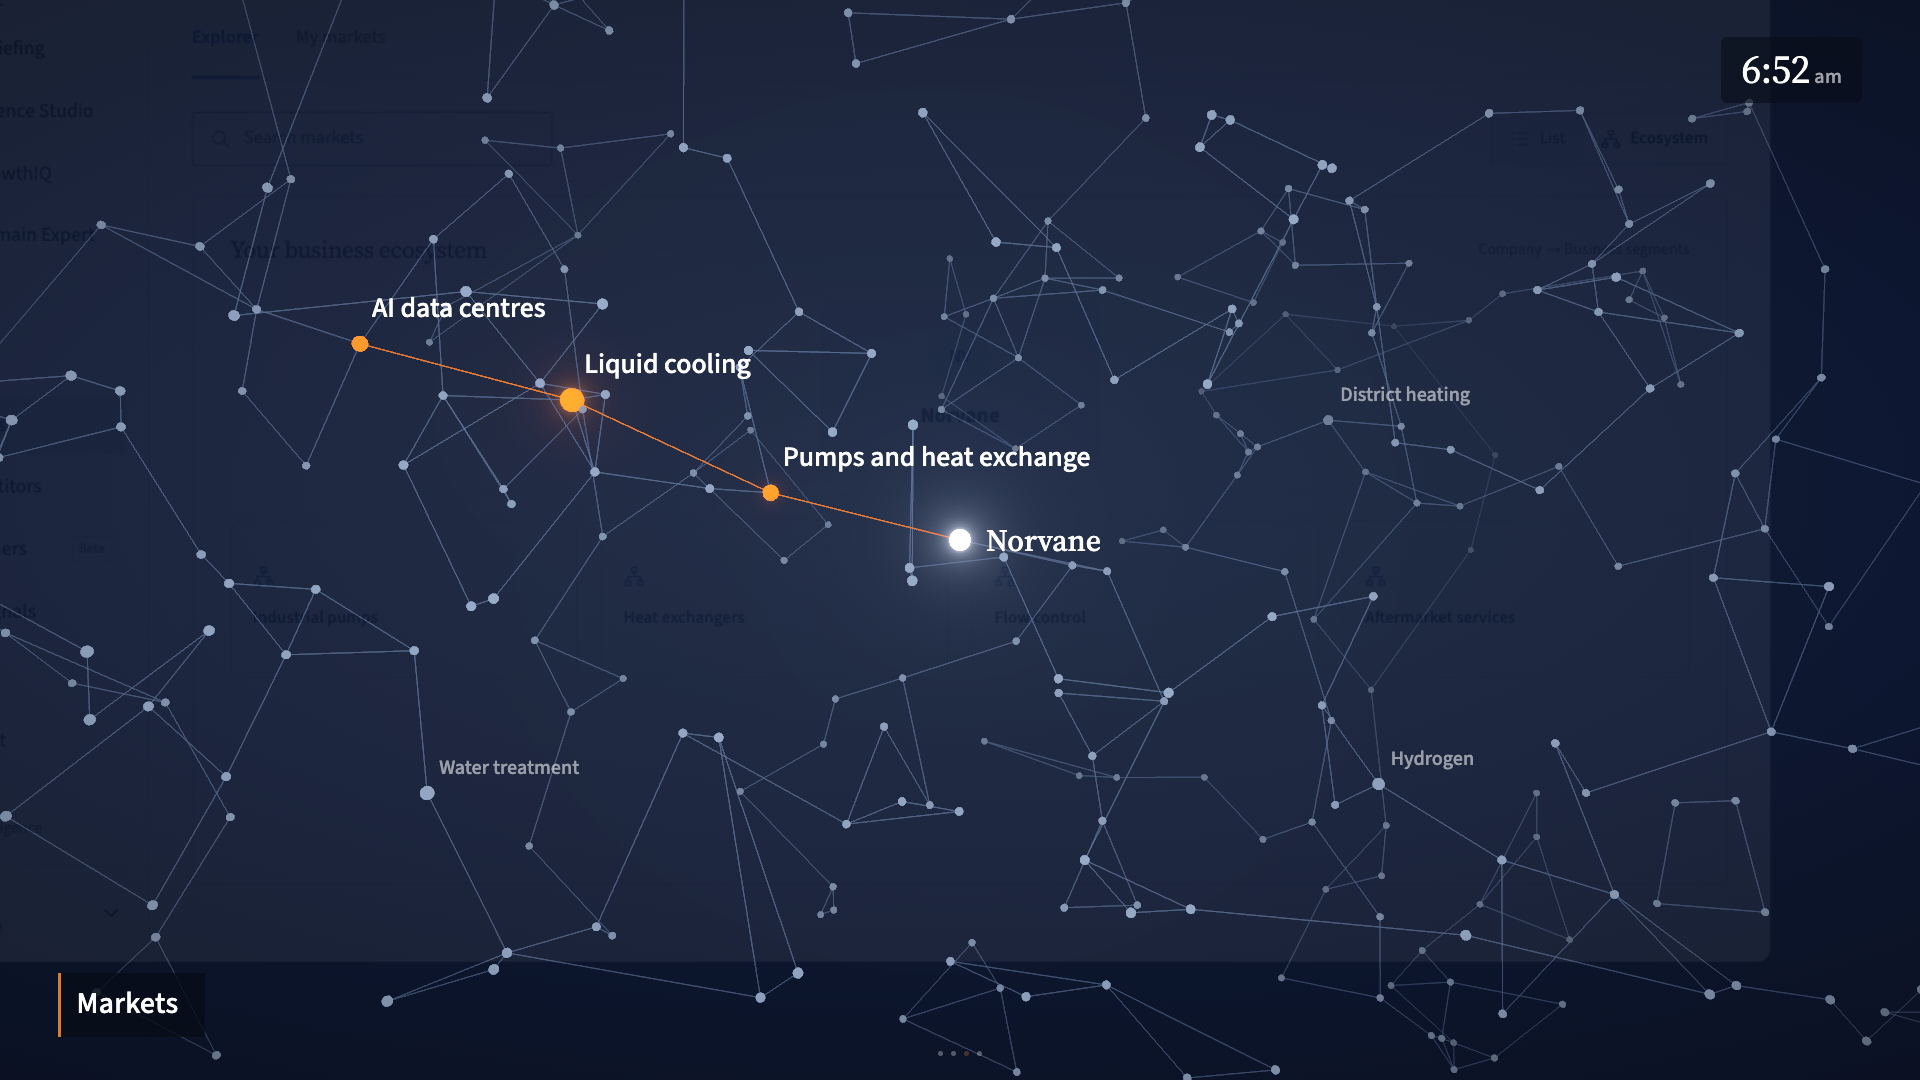
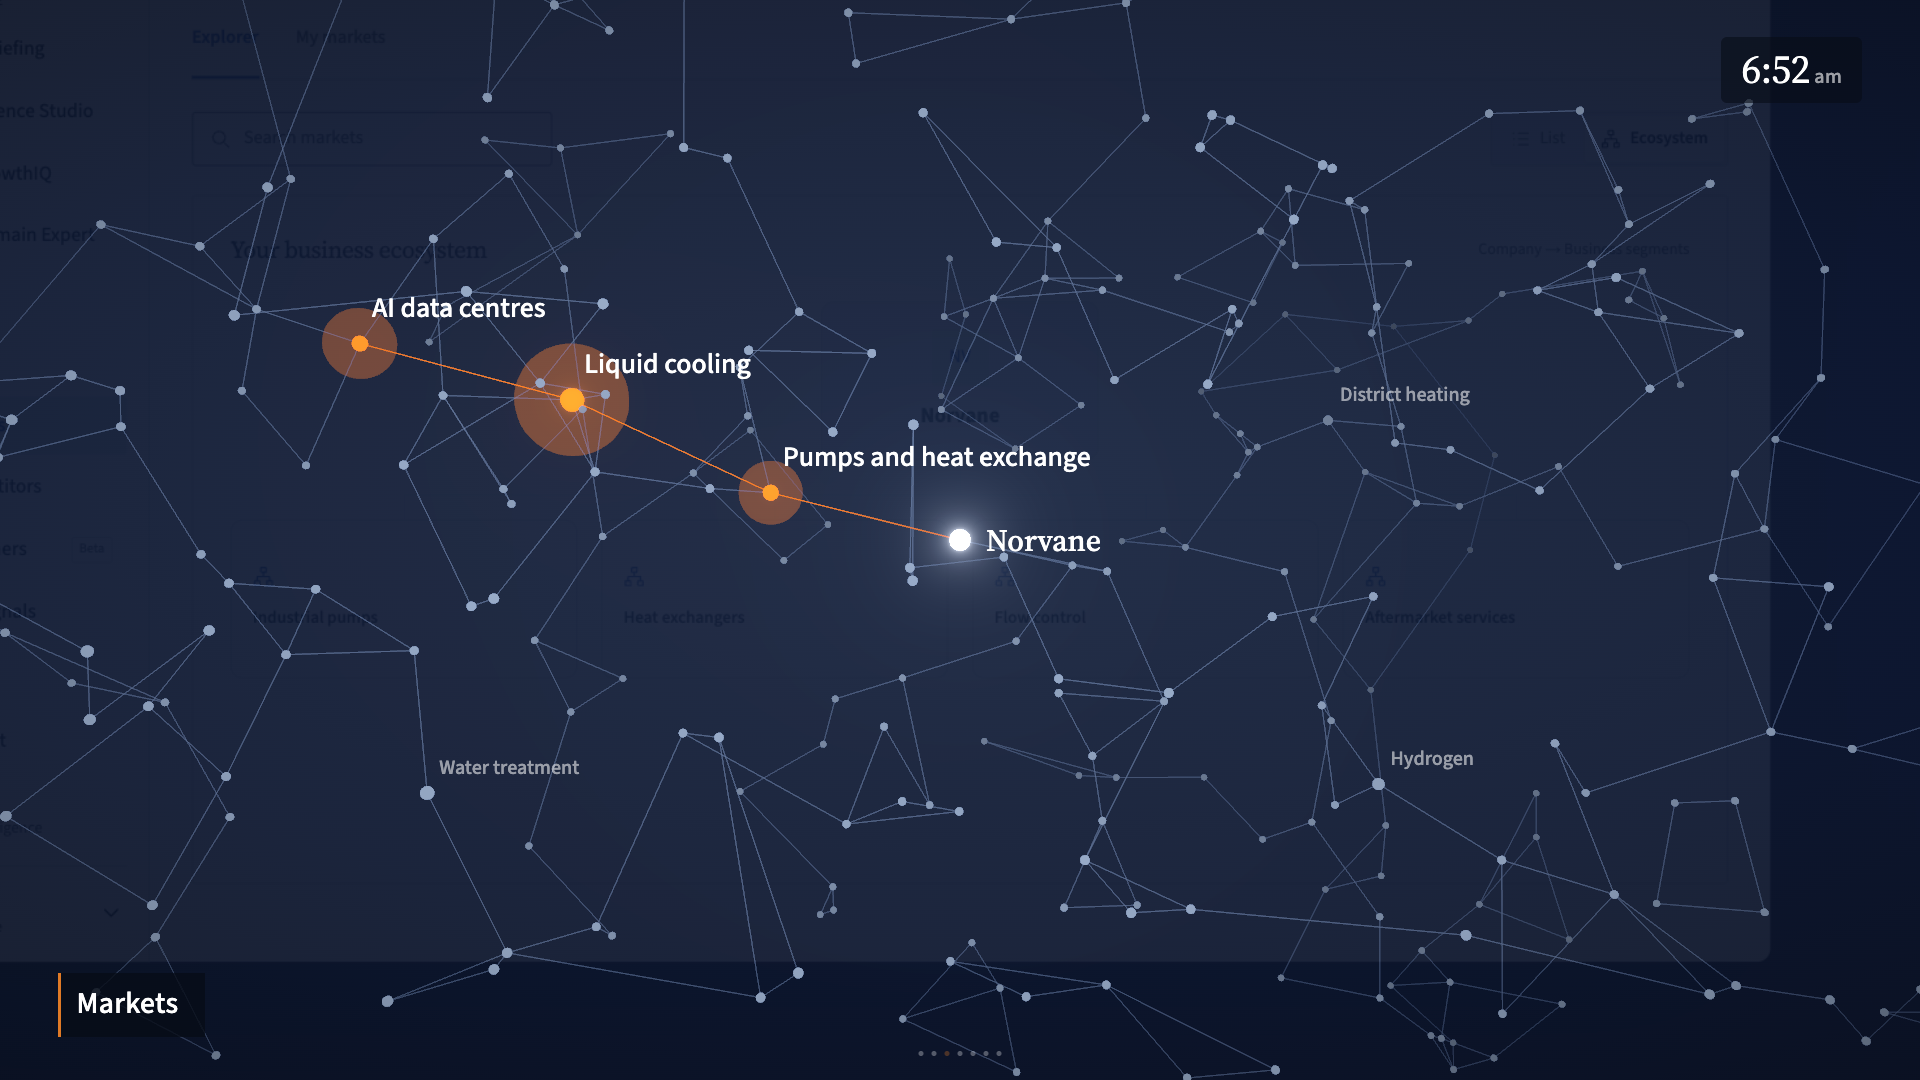
Polish the stage demo: larger tables, travelling evidence, glow and fallbacks
Competitor and benchmark views use four companies at a larger scale.
Evidence cards fly in from the direction of the screens they came from.
Lit markets in the 3D field get halos. Carried text lifts off on a clean
backing. The answer shows a short researching line while it starts, and
act 2 falls back to the ecosystem view when WebGL is unavailable.

Changed region(s): [[0.25, 0.3056, 0.3438, 0.4278], [0.1562, 0.275, 0.2188, 0.3667], [0.375, 0.4278, 0.4375, 0.4889]]

diff --git a/stage/World.jsx b/stage/World.jsx
@@ -33,12 +33,23 @@ function frame(rect, fill) {
 
 // The screens laid out in space, the camera that moves between them, the spotlight that dims
 // everything but the region in question, the scripted cursor and the text carried between screens.
+// The 3D field needs WebGL; without it act 2 simply stays on the product's own ecosystem view.
+const canRender3D = (() => { try { return !!document.createElement('canvas').getContext('webgl2') && !new URLSearchParams(location.search).has('flat'); } catch { return false; } })();
+class Guard extends React.Component {
+  state = {failed: false};
+  static getDerivedStateFromError() { return {failed: true}; }
+  componentDidCatch() { this.props.onFail(); }
+  render() { return this.state.failed ? null : this.props.children; }
+}
+
 export default function World({step, index, settled, director}) {
+  const [field3D, setField3D] = useState(canRender3D);
   const world = useRef(null), panels = useRef({}), sealed = useRef({}), live = useRef({s: 1, x: 0, y: 0});
   const [camera, setCamera] = useState(live.current);
   const [spot, setSpot] = useState(null);
   const [cursor, setCursor] = useState({x: 0, y: 0, on: false, click: 0});
   const [flyer, setFlyer] = useState(null);
+  const [arrivals, setArrivals] = useState([]);
 
   useEffect(() => {
     const timers = [], hidden = [];
@@ -87,10 +98,20 @@ export default function World({step, index, settled, director}) {
         frameId = requestAnimationFrame(() => requestAnimationFrame(() => setFlyer(f => f && {...f, moving: true})));
         later(cameraAt + MOVE + 0.1, () => { hidden.splice(0).forEach(el => { el.style.visibility = ''; }); setFlyer(null); });
       });
+      // Evidence gathered earlier arrives from the direction of the screen it was seen on.
+      setArrivals([]);
+      if (!settled) for (const [n, arrival] of (step.arrivals ?? []).entries()) later(arrival.at, () => {
+        const to = find(arrival.to); if (!to) return;
+        const r = project(worldRect(to), live.current), here = layout[step.screen], there = layout[arrival.from];
+        const dx = there[0] - here[0], dy = there[1] - here[1], length = Math.hypot(dx, dy) || 1, reach = Math.max(innerWidth, innerHeight) * 0.9;
+        setArrivals(list => [...list, {key: n, rect: r, html: to.innerHTML, offset: [dx / length * reach, dy / length * reach], moving: false}]);
+        requestAnimationFrame(() => requestAnimationFrame(() => setArrivals(list => list.map(a => a.key === n ? {...a, moving: true} : a))));
+        later(arrival.at + 1.5, () => setArrivals(list => list.filter(a => a.key !== n)));
+      });
     };
     // Screens mount their sealed content a tick after the world does.
     frameId = requestAnimationFrame(run);
-    return () => { timers.forEach(clearTimeout); cancelAnimationFrame(frameId); hidden.forEach(el => { el.style.visibility = ''; }); setFlyer(null); };
+    return () => { timers.forEach(clearTimeout); cancelAnimationFrame(frameId); hidden.forEach(el => { el.style.visibility = ''; }); setFlyer(null); setArrivals([]); };
   }, [step.id]);
 
   const fieldOn = FIELD.includes(step.id);
@@ -101,9 +122,10 @@ export default function World({step, index, settled, director}) {
       </div>)}
     </div>
     <div className="stage-spot" data-on={!!spot} style={spot ? {left: spot.x - 18, top: spot.y - 18, width: spot.w + 36, height: spot.h + 36} : undefined}/>
-    <div className="stage-veil" data-on={step.id === 'field' || step.id === 'end'}/>
-    <div className="stage-scene" data-on={step.id === 'field'}><Suspense fallback={null}>{fieldOn && <Scene director={director}/>}</Suspense></div>
-    {flyer && <div className="stage-flyer" style={{left: flyer.b.x, top: flyer.b.y, width: flyer.b.w, ...flyer.font, transform: flyer.moving ? 'none' : `translate(${flyer.a.x - flyer.b.x}px, ${flyer.a.y - flyer.b.y}px) scale(${flyer.start})`}}>{flyer.text}</div>}
+    <div className="stage-veil" data-on={(step.id === 'field' && field3D) || step.id === 'end'}/>
+    <div className="stage-scene" data-on={step.id === 'field' && field3D}>{field3D && <Guard onFail={() => setField3D(false)}><Suspense fallback={null}>{fieldOn && <Scene director={director}/>}</Suspense></Guard>}</div>
+    {arrivals.map(a => <div key={a.key} className="stage-arrival" data-moving={a.moving} style={{left: a.rect.x, top: a.rect.y, width: a.rect.w, height: a.rect.h, '--dx': a.offset[0] + 'px', '--dy': a.offset[1] + 'px'}} dangerouslySetInnerHTML={{__html: a.html}}/>)}
+    {flyer && <div className="stage-flyer" data-moving={flyer.moving} style={{left: flyer.b.x, top: flyer.b.y, width: flyer.b.w, ...flyer.font, transform: flyer.moving ? 'none' : `translate(${flyer.a.x - flyer.b.x}px, ${flyer.a.y - flyer.b.y}px) scale(${flyer.start})`}}>{flyer.text}</div>}
     <div className="stage-cursor" data-on={cursor.on} style={{transform: `translate(${cursor.x}px, ${cursor.y}px)`}}>
       {cursor.click > 0 && <span className="stage-click" key={cursor.click}/>}
       <svg viewBox="0 0 24 24" aria-hidden="true"><path d="M5 3v16l4.5-4 2.8 6.2 2.6-1.2-2.8-6.1H18z"/></svg>

diff --git a/stage/screens/Answer.jsx b/stage/screens/Answer.jsx
@@ -17,9 +17,10 @@ const extra = ':host{background:#fff!important;display:block}svg{width:16px;heig
   + '[data-phase="0"] .ar-reader>*{opacity:0}'
   + '[data-phase="1"] .ar-answer-start{animation:type 1.4s steps(34,end) 2.6s both}[data-phase="1"] .ar-answer-intro{animation:rise .8s ' + out + ' 4.2s both}[data-phase="1"] .points li{animation:rise .8s ' + out + ' calc(5.2s + var(--i) * .5s) both}'
   + '[data-phase="0"] .ar-source-group,[data-phase="1"] .ar-source-group{opacity:0}'
-  + '[data-phase="2"] .ar-source-group>h2{animation:rise .7s ' + out + ' 1.2s both}[data-phase="2"] .ar-source-row{animation:dock 1.2s ' + out + ' calc(1.7s + var(--i) * .7s) both}'
+  + '[data-phase="2"] .ar-source-group>h2{animation:rise .7s ' + out + ' 1.2s both}[data-phase="2"] .ar-source-row{animation:land .6s ' + out + ' calc(3.25s + var(--i) * 1s) both}'
   + '@keyframes type{from{clip-path:inset(-10% 100% -10% -2%)}to{clip-path:inset(-10% -2% -10% -2%)}}@keyframes rise{from{opacity:0;transform:translateY(8px)}to{opacity:1;transform:none}}'
-  + '@keyframes dock{from{opacity:0;transform:translateX(-520px);box-shadow:inset 4px 0 0 #e07a26}60%{opacity:1;box-shadow:inset 4px 0 0 #e07a26}to{opacity:1;transform:none;box-shadow:inset 0 0 0 #e07a26}}'
+  + '@keyframes land{from{opacity:0;box-shadow:inset 4px 0 0 #e07a26}to{opacity:1;box-shadow:inset 0 0 0 #e07a26}}'
+  + '[data-focus="answer"]{position:relative}[data-phase="1"] [data-focus="answer"]::before{content:"Researching…";position:absolute;left:0;top:4px;font-size:17px;color:var(--muted);animation:think 2.5s both}@keyframes think{0%{opacity:0}25%,80%{opacity:1}100%{opacity:0}}'
   + '.ar-research{max-width:920px;margin:0;animation:rise .7s ' + out + ' both}.ar-chapter>summary{padding:15px 0}';
 
 // The Ask GrowthIQ result view (ask-results.css classes): the answer writes itself, the evidence
@@ -45,7 +46,7 @@ export default forwardRef(function Answer({stepId, index, ...host}, ref) {
           : <article>
               <div data-focus="answer"><h1 className="ar-answer-start">{answer.heading}</h1><p className="ar-answer-intro">{answer.intro}</p>
                 <ul className="points">{answer.points.map(([title, text], i) => <li key={title} style={{'--i': i}} data-open={i === 2} data-lit={i === 2 && lit} data-focus={i === 2 ? 'open-question' : undefined}><strong>{title}</strong><span data-focus={i === 2 ? 'open-question-text' : undefined}>{text}</span></li>)}</ul></div>
-              <section className="ar-source-group" data-focus="evidence"><h2>Evidence</h2>{answer.evidence.map(([from, title], i) => <div className="ar-source-row" key={from} style={{'--i': i}}><span><strong>From {from}</strong><small>{title}</small></span></div>)}</section>
+              <section className="ar-source-group" data-focus="evidence"><h2>Evidence</h2>{answer.evidence.map(([from, title], i) => <div className="ar-source-row" key={from} style={{'--i': i}} data-focus={'evidence-' + i}><span><strong>From {from}</strong><small>{title}</small></span></div>)}</section>
             </article>}</div>
       </div>
     </div>

diff --git a/stage.css b/stage.css
@@ -16,7 +16,7 @@ html,body{height:100%;margin:0;overflow:hidden;background:#070b16}
 .stage-panel-app .stage-screen{border-radius:10px;box-shadow:0 40px 140px rgb(0 0 0 / .55)}
 
 /* Everything outside the region being discussed falls back */
-.stage-spot{position:absolute;border-radius:14px;box-shadow:0 0 0 200vmax rgb(7 11 22 / .62);opacity:0;pointer-events:none;transition:left var(--move) var(--ease),top var(--move) var(--ease),width var(--move) var(--ease),height var(--move) var(--ease),opacity .8s}
+.stage-spot{position:absolute;border-radius:14px;box-shadow:0 0 0 200vmax rgb(11 20 44 / .68);opacity:0;pointer-events:none;transition:left var(--move) var(--ease),top var(--move) var(--ease),width var(--move) var(--ease),height var(--move) var(--ease),opacity .8s}
 .stage-spot[data-on="true"]{opacity:1}
 
 /* Act 2: the stage darkens and the market field takes over */
@@ -32,7 +32,14 @@ html,body{height:100%;margin:0;overflow:hidden;background:#070b16}
 .stage-labels span[data-role="company"]{font-family:"Source Serif 4",Georgia,serif;font-size:clamp(18px,1.6vw,34px);color:#fff;margin:-.7em 0 0 26px}
 
 /* Text carried from one screen to the next */
-.stage-flyer{position:absolute;margin:0;transform-origin:0 0;transition:transform var(--move) var(--ease);pointer-events:none;text-wrap:balance}
+.stage-flyer{position:absolute;margin:0;transform-origin:0 0;transition:transform var(--move) var(--ease),background-color .5s .5s,box-shadow .5s .5s;pointer-events:none;text-wrap:balance;background:#fff;box-shadow:0 0 0 .4em #fff}
+.stage-flyer[data-moving="true"]{background-color:transparent;box-shadow:0 0 0 .4em transparent}
+
+/* Evidence arriving from the screens it was gathered on */
+.stage-arrival{position:absolute;box-sizing:border-box;display:flex;flex-direction:column;justify-content:center;padding:0 0 0 14px;border-radius:6px;background:#fff;color:#122b3c;font-family:"Source Sans 3",sans-serif;box-shadow:inset 4px 0 0 var(--orange),0 18px 50px rgb(0 0 0 / .45);opacity:0;transform:translate(var(--dx),var(--dy)) scale(.72);transition:transform 1.15s var(--out),opacity .35s;pointer-events:none}
+.stage-arrival[data-moving="true"]{opacity:1;transform:none}
+.stage-arrival strong{display:block;font-size:clamp(13px,1.15vw,24px);font-weight:650;color:#b85d14}
+.stage-arrival small{display:block;margin-top:.15em;font-size:clamp(16px,1.45vw,30px)}
 
 /* Scripted cursor */
 .stage-cursor{position:absolute;left:0;top:0;width:0;height:0;opacity:0;transition:transform .9s var(--out),opacity .4s;pointer-events:none}

diff --git a/stage/Scene.jsx b/stage/Scene.jsx
@@ -15,7 +15,7 @@ const {nodes, path} = field;
 // need that started in AI data centres is traced to the company.
 function Field({director, labels}) {
   const c = useMemo(() => buildConstellation({nodes, path}), []);
-  const group = useRef(), mesh = useRef(), links = useRef(), pathLine = useRef();
+  const group = useRef(), mesh = useRef(), halos = useRef(), links = useRef(), pathLine = useRef();
   const scratch = useMemo(() => ({m: new THREE.Matrix4(), q: new THREE.Quaternion(), s: new THREE.Vector3(), p: new THREE.Vector3(), v: new THREE.Vector3(), col: new THREE.Color()}), []);
   const SEGMENTS = 40;
   const linkGeometry = useMemo(() => {
@@ -53,6 +53,12 @@ function Field({director, labels}) {
       mesh.current.setMatrixAt(i, scratch.m.compose(scratch.p, scratch.q, scratch.s));
       mesh.current.setColorAt(i, scratch.col.multiplyScalar(glow));
     });
+    onPath.forEach((i, place) => {
+      const lit = c.points[i].role !== 'company' && drawn > place / onPath.length ? 1 : 0, breath = 1 + Math.sin(time * 1.8 + place) * 0.12;
+      scratch.p.set(c.points[i].x, c.points[i].y, c.points[i].z); scratch.s.setScalar(lit * (place === 1 ? 1.5 : 1) * breath);
+      halos.current.setMatrixAt(place, scratch.m.compose(scratch.p, scratch.q, scratch.s));
+    });
+    halos.current.instanceMatrix.needsUpdate = true;
     mesh.current.instanceMatrix.needsUpdate = true;
     mesh.current.instanceColor.needsUpdate = true;
     links.current.material.opacity = 0.14 * span(t, 0.6, 3);
@@ -71,6 +77,7 @@ function Field({director, labels}) {
 
   return <group ref={group}>
     <instancedMesh ref={mesh} args={[null, null, c.points.length]} frustumCulled={false}><sphereGeometry args={[0.042, 12, 12]}/><meshBasicMaterial toneMapped={false} transparent depthWrite={false}/></instancedMesh>
+    <instancedMesh ref={halos} args={[null, null, path.length]} frustumCulled={false}><sphereGeometry args={[0.34, 24, 24]}/><meshBasicMaterial color={ORANGE} transparent opacity={0.16} blending={THREE.AdditiveBlending} depthWrite={false} toneMapped={false}/></instancedMesh>
     <lineSegments ref={links} geometry={linkGeometry} frustumCulled={false}><lineBasicMaterial color={COOL} transparent opacity={0} depthWrite={false}/></lineSegments>
     <lineSegments ref={pathLine} geometry={pathGeometry} frustumCulled={false}><lineBasicMaterial color={ORANGE.clone().multiplyScalar(1.5)} toneMapped={false} transparent depthWrite={false}/></lineSegments>
   </group>;

diff --git a/stage/screens/Benchmark.jsx b/stage/screens/Benchmark.jsx
@@ -7,7 +7,7 @@ import {benchmark, illustrative} from '../story.mjs';
 
 const own = '.financial-bar{transform-origin:bottom;transform:scaleY(0)}.financial-bar-value{opacity:0}'
   + '[data-risen="true"] .financial-bar{animation:rise 1.1s cubic-bezier(.16,1,.3,1) calc(1.9s + var(--i) * .14s) both}[data-risen="true"] .financial-bar-value{animation:show .5s calc(2.7s + var(--i) * .14s) both}'
-  + '.financial-bar-group[data-lit="true"] .financial-bar{background:#e07a26!important}.chart-area{padding-top:8px}.financial-bar-group[data-lit="true"] .financial-bar-label{font-weight:650;color:var(--ink)}'
+  + '.financial-bar-group[data-lit="true"] .financial-bar{background:#e07a26!important}.chart-area{padding-top:8px;max-width:720px}.financial-bar-label{font-size:13px}.financial-bar-value{font-size:13px}.financial-bar-group[data-lit="true"] .financial-bar-label{font-weight:650;color:var(--ink)}'
   + '@keyframes rise{to{transform:none}}@keyframes show{to{opacity:1}}';
 
 // Competitor benchmarking, as app.js benchmarking() renders its chart view.

diff --git a/stage/screens/Competitors.jsx b/stage/screens/Competitors.jsx
@@ -4,7 +4,7 @@ import Shell, {sheets, extra} from './Shell.jsx';
 import {Icon} from './icons.jsx';
 import {competitors} from '../story.mjs';
 
-const own = '.presence-table tr[data-lit="true"]>*{background:#fff4e8}.presence-table tr[data-lit="true"]>th{box-shadow:inset 3px 0 0 #e07a26}.stage-note{margin:0;padding:12px 18px;font-size:13px;color:var(--muted)}';
+const own = '[data-focus="presence"]{max-width:940px}.presence-table{font-size:14px}.presence-table th{font-size:12px}.presence-table tr[data-lit="true"]>*{background:#fff4e8}.presence-table tr[data-lit="true"]>th{box-shadow:inset 3px 0 0 #e07a26}.stage-note{margin:0;padding:12px 18px;font-size:13px;color:var(--muted)}';
 
 // Competitor intelligence, as app.js competitors() renders it: who is present in which market.
 export default forwardRef(function Competitors({stepId, index, ...host}, ref) {
